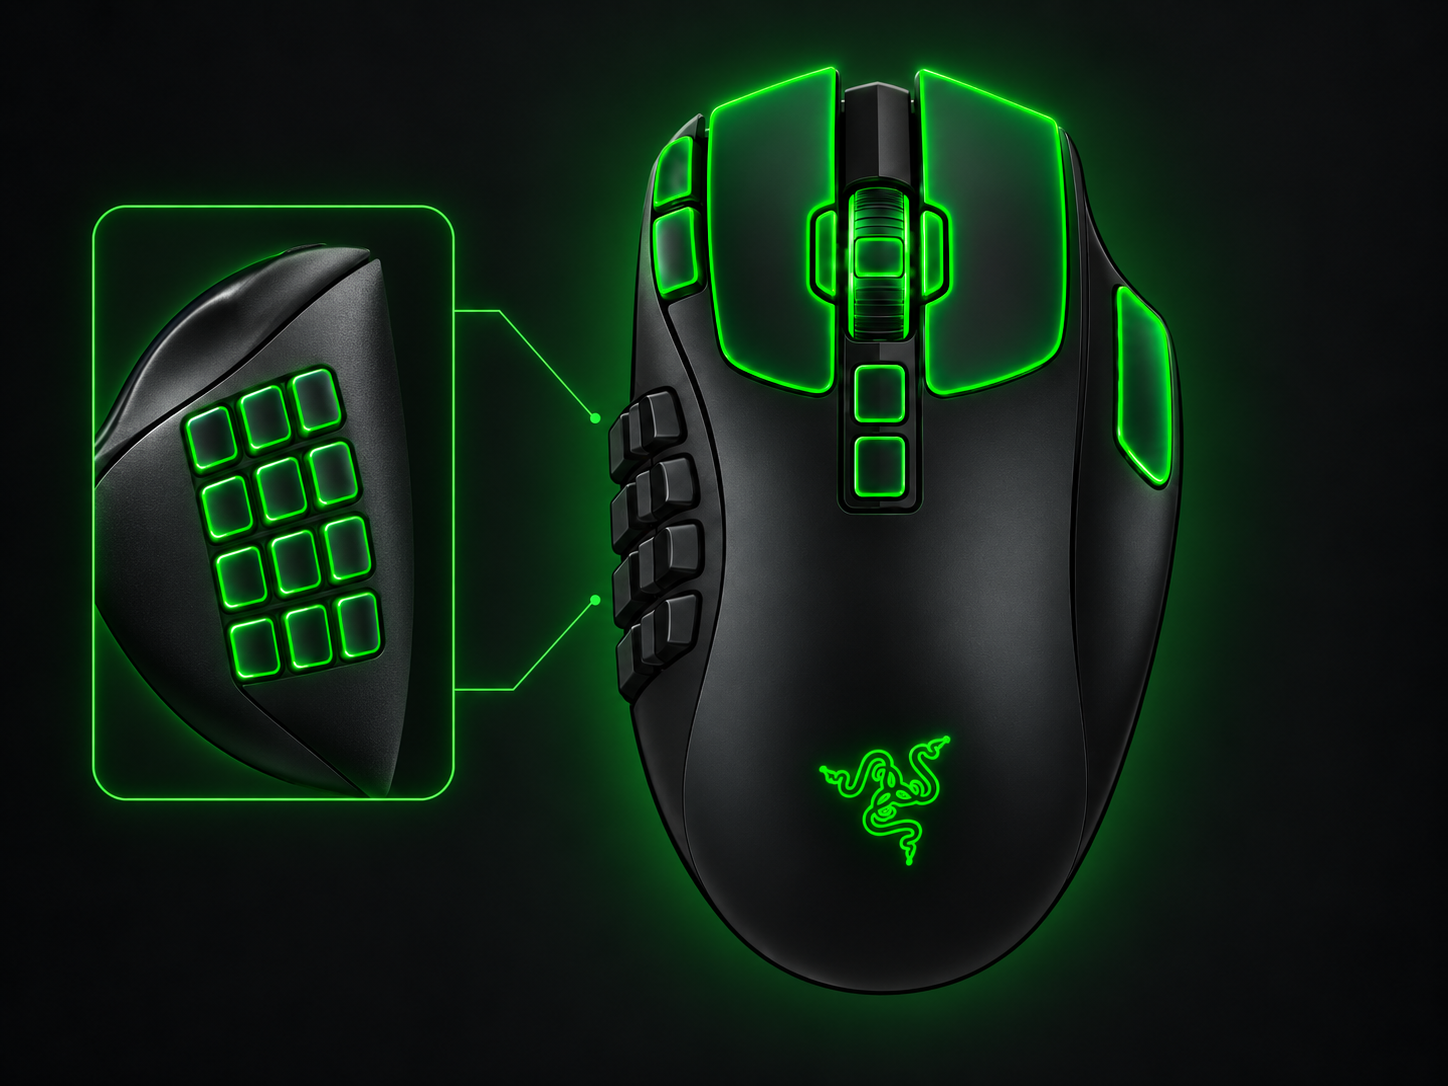
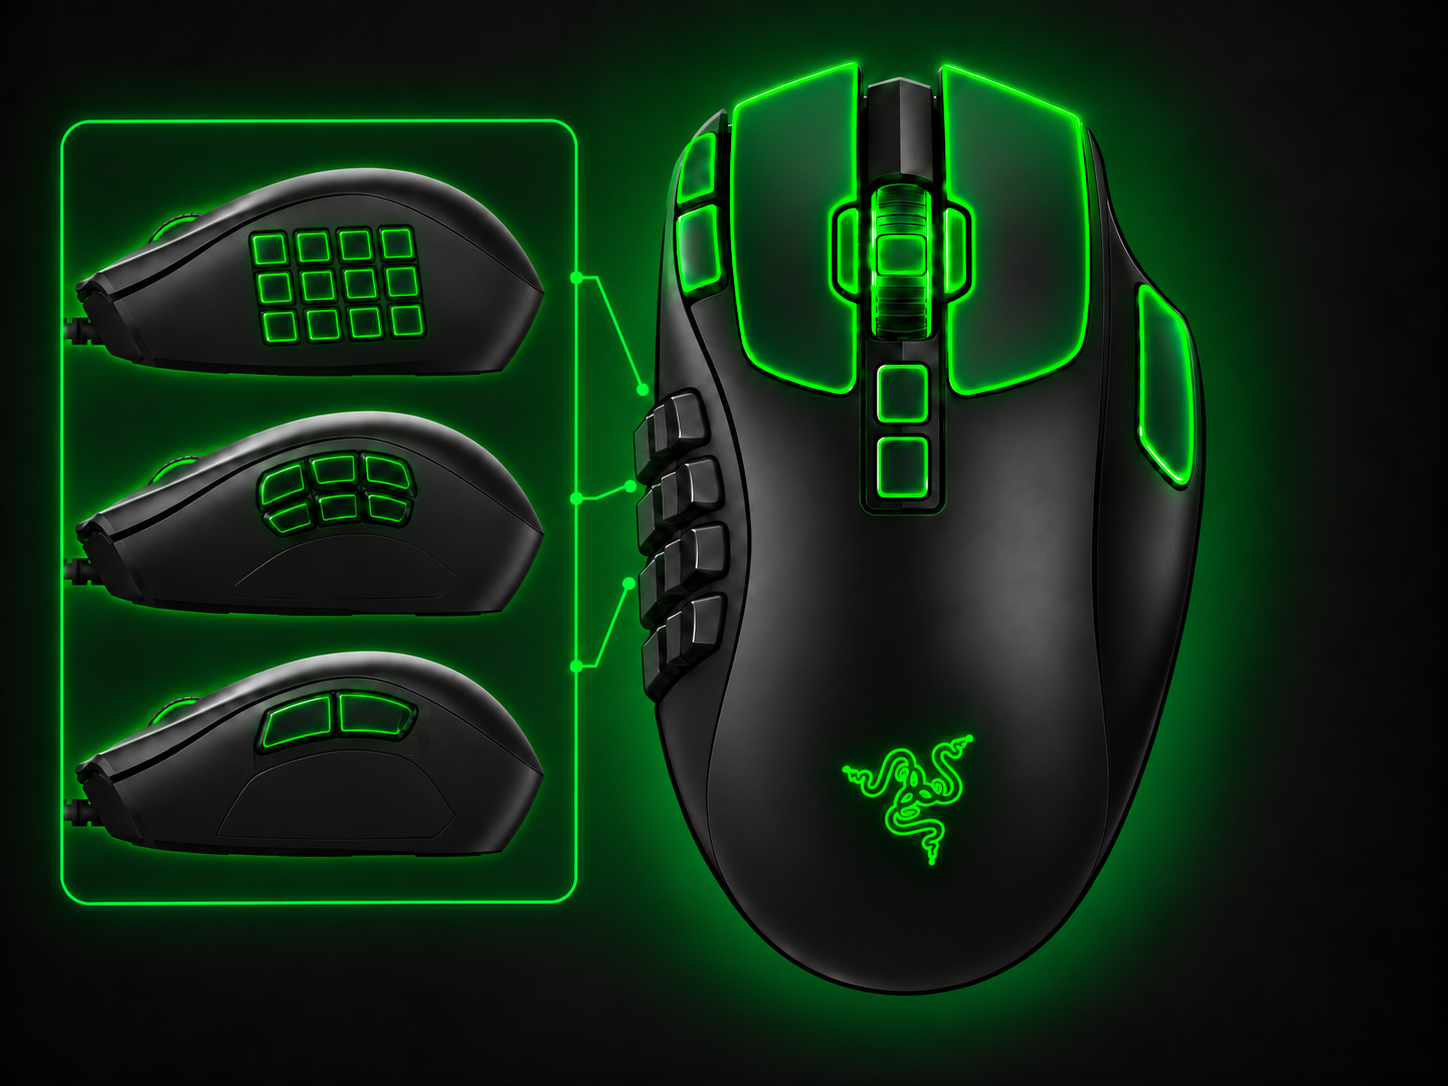
Mapping UX: use the updated illustration with clickable per-plate zones
The new asset adds the three side plates. Plate controls now have real
zones: the 12-button grid (4x3), 6-button (3x2), and 2-button plates in
the left panel are clickable when that plate is attached; the attached
grid on the main mouse becomes a decorative hint zone.

diff --git a/src/naga_control/gui/mapping_zones.py b/src/naga_control/gui/mapping_zones.py
@@ -1,7 +1,9 @@
 """Qt-free zone layout of the mapping illustration.
 
 All rectangles are normalized (0..1) against the 1448x1086 source image
-``assets/Mapping.png`` and were derived from its highlighted regions.
+``assets/Mapping.png``. The image shows the main mouse on the right (common
+controls plus a decorative attached 12-button grid) and, on the left, the
+three side plates: 12-button (4x3), 6-button (3x2), and 2-button.
 """
 
 from dataclasses import dataclass
@@ -17,11 +19,7 @@ class MappingZone:
     control_id: str | None
     label: str
     rect: tuple[float, float, float, float]
-    plate: bool = False
-
-    @property
-    def assignable(self) -> bool:
-        return self.control_id is not None
+    plate: int | None = None
 
     def contains(self, x: float, y: float) -> bool:
         rx, ry, rw, rh = self.rect
@@ -41,57 +39,78 @@ def _normalized(x: int, y: int, w: int, h: int, pad: int = 4) -> tuple[float, fl
 
 def _common() -> tuple[MappingZone, ...]:
     return (
-        MappingZone("dpi_up", "DPI up", _normalized(636, 136, 60, 80)),
-        MappingZone("dpi_down", "DPI down", _normalized(636, 216, 60, 80)),
-        MappingZone("wheel_tilt_left", "Wheel tilt left", _normalized(816, 212, 20, 84)),
-        MappingZone("wheel_tilt_right", "Wheel tilt right", _normalized(920, 212, 20, 80)),
-        MappingZone("top_front", "Top front", _normalized(856, 368, 48, 52)),
-        MappingZone("top_rear", "Top rear", _normalized(856, 436, 48, 60)),
-        MappingZone("ring_finger", "Ring finger", _normalized(1116, 288, 56, 196)),
+        MappingZone("dpi_up", "DPI up", _normalized(676, 204, 46, 46)),
+        MappingZone("dpi_down", "DPI down", _normalized(676, 250, 46, 44)),
+        MappingZone("wheel_tilt_left", "Wheel tilt left", _normalized(840, 208, 16, 84)),
+        MappingZone("wheel_tilt_right", "Wheel tilt right", _normalized(944, 208, 20, 84)),
+        MappingZone("top_front", "Top front", _normalized(880, 368, 44, 52)),
+        MappingZone("top_rear", "Top rear", _normalized(880, 440, 44, 56)),
+        MappingZone("ring_finger", "Ring finger", _normalized(1140, 284, 56, 200)),
     )
 
 
-_PLATE12_PIXELS = (
-    (188, 416, 40, 56),
-    (240, 392, 32, 60),
-    (288, 376, 44, 56),
-    (200, 476, 44, 64),
-    (256, 464, 32, 60),
-    (308, 448, 32, 56),
-    (216, 552, 32, 56),
-    (268, 536, 40, 60),
-    (324, 516, 40, 64),
-    (232, 620, 44, 56),
-    (284, 604, 40, 64),
-    (336, 592, 36, 64),
-)
-
-
 def _plate12() -> tuple[MappingZone, ...]:
+    boxes = (
+        (252, 230, 36, 34),
+        (296, 228, 36, 34),
+        (338, 228, 36, 34),
+        (378, 226, 38, 34),
+        (256, 270, 36, 32),
+        (300, 268, 36, 32),
+        (342, 266, 36, 32),
+        (384, 264, 36, 32),
+        (262, 308, 36, 34),
+        (304, 306, 36, 34),
+        (348, 304, 36, 34),
+        (390, 302, 34, 34),
+    )
     return tuple(
-        MappingZone(
-            f"side_12_{number}",
-            f"Side {number}",
-            _normalized(*pixels),
-            plate=True,
-        )
-        for number, pixels in enumerate(_PLATE12_PIXELS, start=1)
+        MappingZone(f"side_12_{number}", f"Side {number}", _normalized(*box), plate=12)
+        for number, box in enumerate(boxes, start=1)
+    )
+
+
+def _plate6() -> tuple[MappingZone, ...]:
+    boxes = (
+        (258, 452, 48, 38),
+        (308, 452, 46, 36),
+        (360, 450, 50, 38),
+        (262, 494, 44, 34),
+        (314, 492, 42, 32),
+        (366, 492, 44, 32),
+    )
+    return tuple(
+        MappingZone(f"side_6_{number}", f"Side {number}", _normalized(*box), plate=6)
+        for number, box in enumerate(boxes, start=1)
+    )
+
+
+def _plate2() -> tuple[MappingZone, ...]:
+    return (
+        MappingZone("side_2_front", "Side front", _normalized(264, 684, 62, 46), plate=2),
+        MappingZone("side_2_rear", "Side rear", _normalized(334, 682, 46, 46), plate=2),
     )
 
 
 WHEEL_CLICK_ZONE = MappingZone(
     None,
     "Scroll wheel click",
-    _normalized(848, 192, 64, 144),
+    _normalized(868, 188, 64, 148),
+)
+
+MAIN_GRID_HINT_ZONE = MappingZone(
+    None,
+    "Side buttons",
+    _normalized(592, 408, 160, 300),
 )
 
 COMMON_ZONES: tuple[MappingZone, ...] = _common()
-PLATE12_ZONES: tuple[MappingZone, ...] = _plate12()
+PLATE_ZONES: tuple[MappingZone, ...] = (*_plate12(), *_plate6(), *_plate2())
 
 
 def all_zones() -> tuple[MappingZone, ...]:
-    """Every zone of the illustration, including the passthrough wheel click."""
-    return (*COMMON_ZONES, WHEEL_CLICK_ZONE, *PLATE12_ZONES)
+    """Every zone, including decorative passthrough regions."""
+    return (*COMMON_ZONES, WHEEL_CLICK_ZONE, MAIN_GRID_HINT_ZONE, *PLATE_ZONES)
 
 
 def zone_at(x: float, y: float, *, plate_layout: int = 12) -> MappingZone | None:
@@ -110,7 +129,7 @@ def zone_for_control(control_id: str) -> MappingZone | None:
 
 
 def zone_assignable(zone: MappingZone, plate_layout: int) -> bool:
-    """A zone can be assigned when it is a control on the attached plate."""
+    """A zone can be assigned when its plate is the attached one."""
     if zone.control_id is None:
         return False
-    return not (zone.plate and plate_layout != 12)
+    return zone.plate is None or zone.plate == plate_layout

diff --git a/tests/test_gui_mapping_zones.py b/tests/test_gui_mapping_zones.py
@@ -1,6 +1,5 @@
-import pytest
-
 from naga_control.gui.mapping_zones import (
+    MAIN_GRID_HINT_ZONE,
     WHEEL_CLICK_ZONE,
     all_zones,
     zone_assignable,
@@ -13,7 +12,7 @@ def test_the_illustration_defines_every_control_zone() -> None:
     zones = all_zones()
 
     control_ids = {zone.control_id for zone in zones if zone.control_id is not None}
-    assert len(zones) == 7 + 12 + 1
+    assert len(zones) == 7 + 2 + 12 + 6 + 2
     assert "dpi_up" in control_ids
     assert "dpi_down" in control_ids
     assert "wheel_tilt_left" in control_ids
@@ -23,6 +22,17 @@ def test_the_illustration_defines_every_control_zone() -> None:
     assert "ring_finger" in control_ids
     for number in range(1, 13):
         assert f"side_12_{number}" in control_ids
+    for number in range(1, 7):
+        assert f"side_6_{number}" in control_ids
+    assert "side_2_front" in control_ids
+    assert "side_2_rear" in control_ids
+
+
+def test_the_two_decorative_zones_are_passthrough() -> None:
+    assert WHEEL_CLICK_ZONE.control_id is None
+    assert MAIN_GRID_HINT_ZONE.control_id is None
+    assert not zone_assignable(WHEEL_CLICK_ZONE, 12)
+    assert not zone_assignable(MAIN_GRID_HINT_ZONE, 12)
 
 
 def test_zone_rects_are_normalized_and_sized() -> None:
@@ -30,8 +40,8 @@ def test_zone_rects_are_normalized_and_sized() -> None:
         x, y, w, h = zone.rect
         assert 0.0 <= x < 1.0, zone
         assert 0.0 <= y < 1.0, zone
-        assert 0.005 < w < 0.2, zone
-        assert 0.005 < h < 0.3, zone
+        assert 0.003 < w < 0.2, zone
+        assert 0.003 < h < 0.3, zone
         assert x + w <= 1.0 + 1e-9, zone
         assert y + h <= 1.0 + 1e-9, zone
 
@@ -40,6 +50,21 @@ def test_zone_centers_hit_their_own_zone() -> None:
     for zone in all_zones():
         x, y, w, h = zone.rect
         assert zone_at(x + w / 2, y + h / 2) is zone
+
+
+def test_zone_rects_do_not_overlap_within_a_plate() -> None:
+    zones = all_zones()
+    tolerance = 0.008
+    for index, zone in enumerate(zones):
+        for other in zones[index + 1 :]:
+            if zone.plate != other.plate:
+                continue
+            x, y, w, h = zone.rect
+            ox, oy, ow, oh = other.rect
+            overlap_x = min(x + w, ox + ow) - max(x, ox)
+            overlap_y = min(y + h, oy + oh) - max(y, oy)
+            separated = overlap_x <= tolerance or overlap_y <= tolerance
+            assert separated, f"{zone} overlaps {other}"
 
 
 def test_the_dpi_pair_is_two_separate_zones() -> None:
@@ -54,31 +79,21 @@ def test_the_dpi_pair_is_two_separate_zones() -> None:
     assert zone_at(dx + dw / 2, dy + 0.01) is down
 
 
-def test_the_wheel_click_zone_is_passthrough() -> None:
-    assert WHEEL_CLICK_ZONE.control_id is None
-    assert not zone_assignable(WHEEL_CLICK_ZONE, 12)
-    x, y, w, h = WHEEL_CLICK_ZONE.rect
-    assert zone_at(x + w / 2, y + h / 2) is WHEEL_CLICK_ZONE
-
-
 def test_plate_zones_follow_the_attached_plate() -> None:
-    side_1 = zone_for_control("side_12_1")
-    assert side_1 is not None
-    assert zone_assignable(side_1, 12)
-    assert not zone_assignable(side_1, 6)
-    assert not zone_assignable(side_1, 2)
+    expectations = [
+        ("side_12_1", 12),
+        ("side_6_1", 6),
+        ("side_2_front", 2),
+    ]
+    for control_id, plate in expectations:
+        zone = zone_for_control(control_id)
+        assert zone is not None and zone.plate == plate
+        assert zone_assignable(zone, plate)
+        for other in (2, 6, 12):
+            if other != plate:
+                assert not zone_assignable(zone, other)
 
     dpi_up = zone_for_control("dpi_up")
     assert dpi_up is not None
-    assert zone_assignable(dpi_up, 2)
-    assert zone_assignable(dpi_up, 6)
-    assert zone_assignable(dpi_up, 12)
-
-
-@pytest.mark.parametrize("control", ["top_front", "top_rear", "ring_finger"])
-def test_center_top_zones_map_to_their_controls(control: str) -> None:
-    zone = zone_for_control(control)
-    assert zone is not None
-    x, y, w, h = zone.rect
-    hit = zone_at(x + w / 2, y + h / 2)
-    assert hit is not None and hit.control_id == control
+    for layout in (2, 6, 12):
+        assert zone_assignable(dpi_up, layout)

diff --git a/src/naga_control/gui/mapping_map.py b/src/naga_control/gui/mapping_map.py
@@ -9,7 +9,12 @@ from PySide6.QtWidgets import QGraphicsPixmapItem, QGraphicsRectItem, QGraphicsS
 
 from naga_control.domain.actions import Action
 from naga_control.gui.actions_view import action_kind, format_action_detail
-from naga_control.gui.mapping_zones import MappingZone, all_zones, zone_assignable
+from naga_control.gui.mapping_zones import (
+    MAIN_GRID_HINT_ZONE,
+    MappingZone,
+    all_zones,
+    zone_assignable,
+)
 
 _ACCENT = QColor(68, 255, 136)
 _DISABLED = QColor(128, 128, 128)
@@ -114,9 +119,14 @@ class MappingMapView(QGraphicsView):
         for item in self.zone_items:
             control = item.zone.control_id
             if control is None:
-                item.setToolTip(f"{item.zone.label} — passthrough (not remappable in v0.1)")
+                if item.zone is MAIN_GRID_HINT_ZONE:
+                    item.setToolTip(
+                        f"{item.zone.label} — pick the matching plate illustration on the left"
+                    )
+                else:
+                    item.setToolTip(f"{item.zone.label} — passthrough (not remappable in v0.1)")
             elif not zone_assignable(item.zone, self._plate_layout):
-                item.setToolTip(f"{item.zone.label} — not on the attached plate")
+                item.setToolTip(f"{item.zone.label} — needs the {item.zone.plate}-button plate")
             else:
                 action = actions.get(control)
                 if action is None:

diff --git a/tests/test_gui_mapping_map.py b/tests/test_gui_mapping_map.py
@@ -109,7 +109,7 @@ def test_action_tooltips_reflect_bindings_and_plate(qapp: QApplication) -> None:
 
     assert dpi_up.toolTip() == "DPI up — device: dpi_stage_up"  # type: ignore[attr-defined]
     assert dpi_down.toolTip() == "DPI down — passthrough"  # type: ignore[attr-defined]
-    assert side_1.toolTip() == "Side 1 — not on the attached plate"  # type: ignore[attr-defined]
+    assert side_1.toolTip() == "Side 1 — needs the 12-button plate"  # type: ignore[attr-defined]
     assert wheel.toolTip() == "Scroll wheel click — passthrough (not remappable in v0.1)"  # type: ignore[attr-defined]
 
 

diff --git a/tests/test_gui_buttons_page.py b/tests/test_gui_buttons_page.py
@@ -216,4 +216,4 @@ def test_mapping_map_tracks_the_plate_selector(qapp: QApplication) -> None:
     side_1 = next(
         item for item in page.mapping_map.zone_items if item.zone.control_id == "side_12_1"
     )
-    assert side_1.toolTip() == "Side 1 — not on the attached plate"
+    assert side_1.toolTip() == "Side 1 — needs the 12-button plate"
